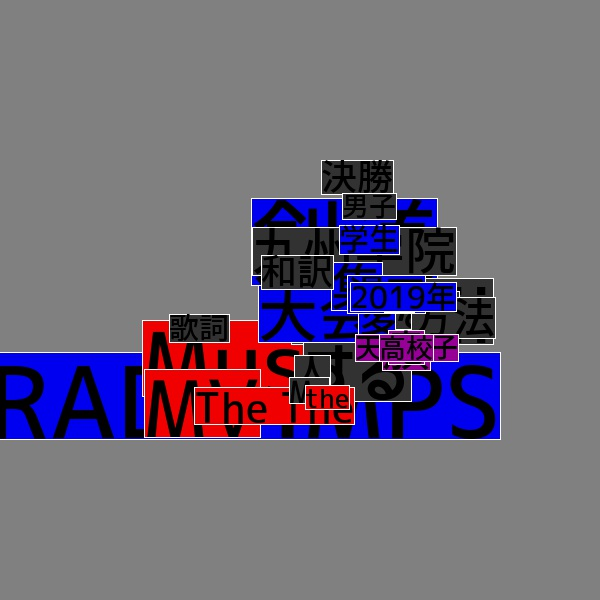
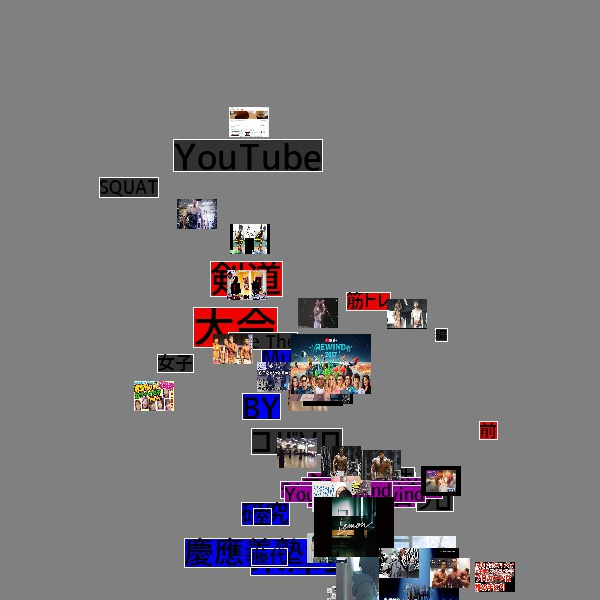
Update

diff --git a/myModule.py b/myModule.py
@@ -75,7 +75,8 @@ class Watchs:
                 if len(feature) == 2:#'EOS'と''を省く
                     info = feature[1].split(',')
                     hinshi = info[0]
-                    if hinshi in ('名詞', '動詞'):
+                    # if hinshi in ('名詞', '動詞'):
+                    if hinshi in ('名詞'):
                         nounAndVerb.append(info[6])
 
             watch.tags = nounAndVerb
@@ -359,10 +360,7 @@ class Tset:
                     #print("y : " + str(t_element.extracted_watch_info_dict[video_id].position[1]))
                     #print( "frequency: " + str(t_element.extracted_watch_info_dict[video_id].view_num))
 
-
-
     def draw_word_crowd(self, DRAW_INDEX, X_SIZE, Y_SIZE):
-
         campus = Image.new('RGB', (X_SIZE, Y_SIZE), (128, 128, 128))
         position_scale_rate = X_SIZE / 2 * (self.x_max + 0.5) 
         draw = ImageDraw.Draw(campus)
@@ -377,7 +375,7 @@ class Tset:
 
 
             ttfontname = "./logotypejp_mp_m_1.1.ttf"
-            fontsize = size * 3
+            fontsize = size * 6
             text = word
             textRGB = (0, 0, 0)
 
@@ -413,10 +411,6 @@ class Tset:
                                 Y_SIZE / 2 + position_scale_rate * y + (textHeight / 2)),\
                                 fill=(50, 50, 50), outline=(255, 255, 255))
             
-            ttfontname = "./logotypejp_mp_m_1.1.ttf"
-            fontsize = size * 3
-            text = word
-            textRGB = (0, 0, 0)
 
             text_position_x = X_SIZE / 2 + position_scale_rate * x - (textWidth  / 2)
             text_position_y = Y_SIZE / 2 + position_scale_rate * y - (textHeight / 2)
@@ -432,9 +426,10 @@ class Tset:
                 word_positions_in_pic = np.append(word_positions_in_pic, a_2d_ex, axis=0)
 
         campus.save('pillow_imagedraw.jpg', quality=95)
+        print(self.elements_list[DRAW_INDEX].word_count_dict)
+        #print(word_positions_in_pic)
 
-        print(word_positions_in_pic)
-
+        #ドロネー三角分割
         tri = Delaunay(word_positions_in_pic)
         fig = delaunay_plot_2d(tri)
         fig.savefig('scipy_matplotlib_delaunay.png')
@@ -453,7 +448,7 @@ class Tset:
                 aaa.write(image)
             
             img = Image.open("Thumbnail/" + item[0] + ".jpeg")
-            img_resize = img.resize((20*item[1].view_num, 15*item[1].view_num))
+            img_resize = img.resize((40*item[1].view_num, 30*item[1].view_num))
             campus.paste(img_resize, (int(X_SIZE / 2 + position_scale_rate * item[1].position[0] -2), \
                                       int(Y_SIZE / 2 + position_scale_rate * item[1].position[1] -2) )\
                         )
@@ -556,10 +551,37 @@ class Tset:
             S_X = H_X - H_X_semicolon_Y + 1.4
             height = np.append(height, S_X)
         print(len(height))
-        #文字を取り込む
-        fig = plt.figure()
-        p = plt.vlines([DRAW_INDEX], -1, 2.1, "red", linestyles='dashed') 
-        plt.plot(left, height)
+
+
+        plt.style.use("seaborn-dark")
+        for param in ['figure.facecolor', 'axes.facecolor', 'savefig.facecolor']:
+            plt.rcParams[param] = '#212946'  # bluish dark grey
+        for param in ['text.color', 'axes.labelcolor', 'xtick.color', 'ytick.color']:
+            plt.rcParams[param] = '0.9'  # very light grey
+        fig, ax = plt.subplots()
+        # 折れ線のメイン=水色
+        ax.plot(left, height, marker='o', color='#08F7FE')
+        n_shades = 10
+        diff_linewidth = 1.05
+        alpha_value = 0.3 / n_shades
+
+        # 折れ線の影=水色
+        for n in range(1, n_shades+1):
+            ax.plot(marker='o',linewidth=2+(diff_linewidth * n), alpha=alpha_value, legend=False, color='#08F7FE')
+        
+        ax.fill_between(left,height, color='#08F7FE', alpha=0.1)
+        
+        # Persistencyに応じて、色を変える
+        for value, i in zip(height, range(len(height))):
+            if i == 0:
+                prevalue = value
+                continue
+            if abs(value - prevalue)  > 0.7:
+                ax.plot(np.array([i-1, i]), np.array([prevalue, value]), marker='o', color='#FE53BB')
+                ax.fill_between(np.array([i-1, i]), np.array([prevalue, value]), color='#FE53BB', alpha=0.11)
+            prevalue = value
+        
+        ax.grid(color='#2A3459')
         fig.savefig("S_X.png") 
 
 '''

diff --git a/main.py b/main.py
@@ -5,7 +5,7 @@ TSET_INTERVAL_NUM = 30
 # 出現回数が閾値以降のものを残す時に、何個wordを残す(抽出する)かを決める値。 !!!!!!!!!!!!!!!!!!!!!!!!!
 WORDS_NUM_IN_A_CLOUD = 30
 # ワードクラウドとして描画する t_elementのINDEX
-DRAW_INDEX = 5 
+DRAW_INDEX = 9
 
 # watchs
 watchs = Watchs('output.csv')
@@ -44,7 +44,7 @@ t_set.set_t_element_extracted_watch_list(watchs)
 # ワードクラウドの表示
 t_set.draw_word_crowd(DRAW_INDEX, X_SIZE=600, Y_SIZE=600)
 # サムネイル クラウドの表示
-# t_set.draw_thumbnail_crowd(DRAW_INDEX, X_SIZE=600, Y_SIZE=600)
+t_set.draw_thumbnail_crowd(DRAW_INDEX, X_SIZE=600, Y_SIZE=600)
 
 # significance curveの表示
 t_set.draw_significance_curve(TSET_INTERVAL_NUM, DRAW_INDEX)
